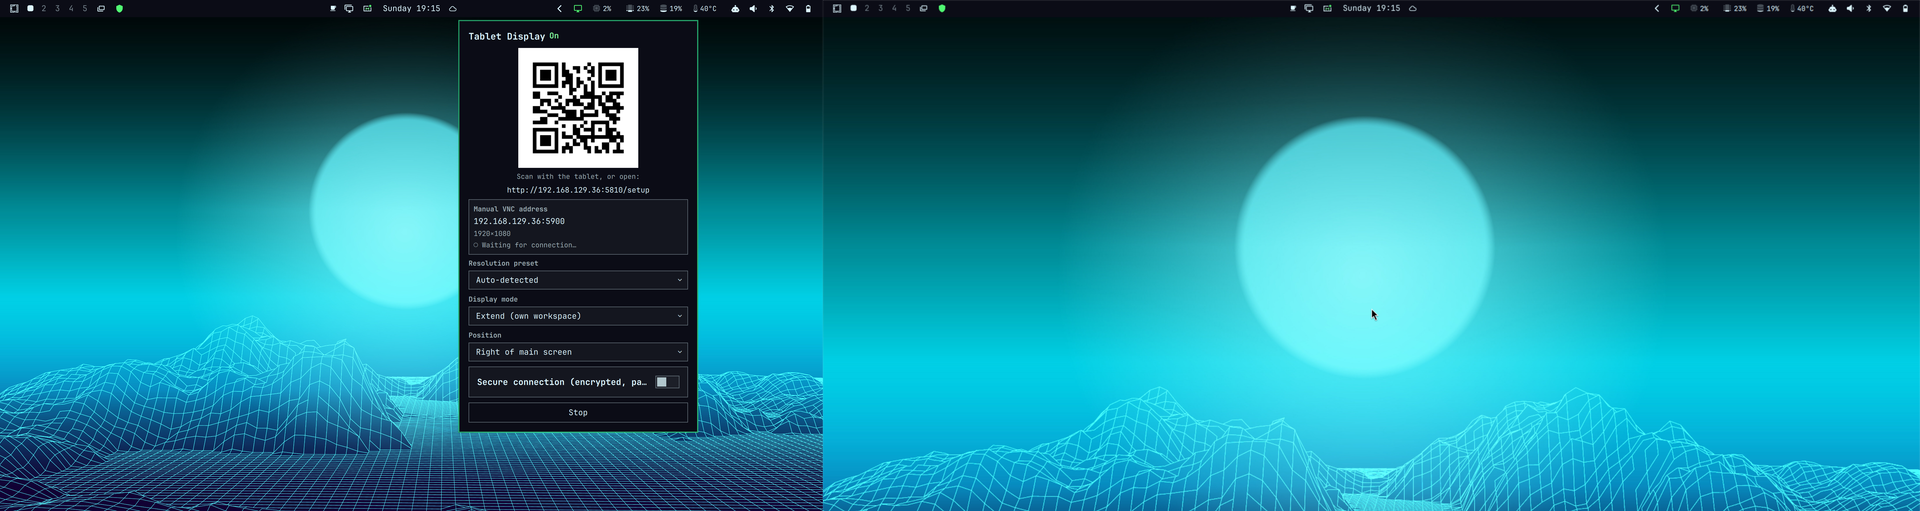
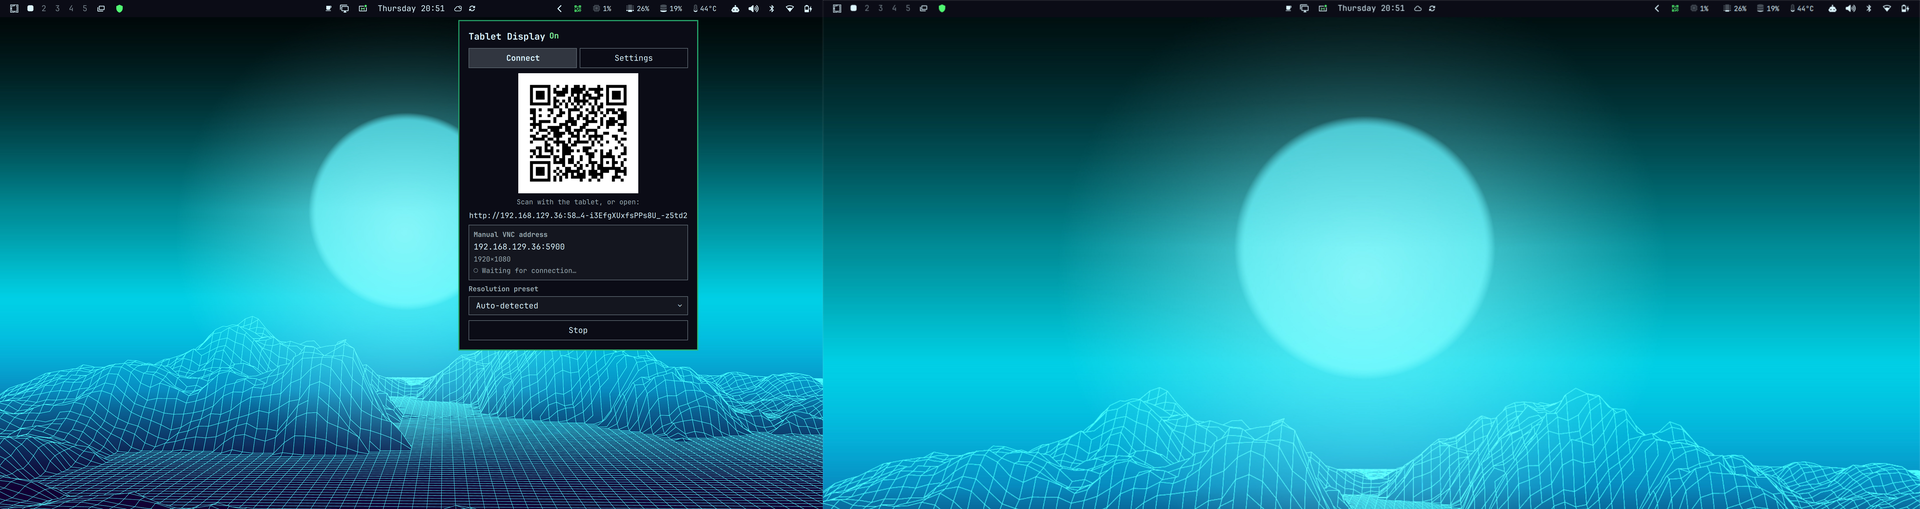
Re-record all demo GIFs and preview for the current tabbed UI
All three GIFs and the marketplace preview image predated the
Connect/Settings tabs, the QR-code bar icon, and mandatory encryption
(no toggle) -- they still showed the old single-column panel with an
encryption toggle that no longer exists.

- install-clip.gif: plugin add -> panel opens on Settings (nothing to
  show on Connect yet) -> Set up now -> the real polkit prompt for the
  ufw rule -> ready. Trimmed the unanswered-prompt's real ~15s timeout
  down to a brief held frame, same technique as before.
- quick-start.gif: Start -> panel switches to Connect automatically ->
  QR code.
- settings.gif: Position change and password regeneration on the
  Settings tab (no more toggle to demonstrate).
- preview.png: fresh screenshot, Connect tab with QR code, Extend mode
  showing the real second monitor.

Also tidied the Quick start numbered list: the tabs explanation was
awkwardly appended to the "Set up now"/polkit paragraph in the previous
commit; moved it to where the panel is actually described opening.

Claude-Session: https://claude.ai/code/session_01BrR7G7B2Zq3M2crPZbv75B

Changed region(s): [[0.0, 0.0884, 1.0, 1.0], [0.6562, 0.0, 0.75, 0.0295], [0.1562, 0.0, 0.25, 0.0295]]

diff --git a/README.md b/README.md
@@ -40,7 +40,10 @@ below.
 
 ![Enabling the plugin, then the one-time setup and its password prompt](docs/install-clip.gif)
 
-1. Click the bar icon. The panel opens.
+1. Click the bar icon. The panel opens, with two tabs — **Connect** and
+   **Settings**. It opens on Settings first (Connect has nothing to show
+   before a session exists), and switches to Connect automatically once
+   you start one.
 2. **First time only**: the panel shows a "Set up now" button instead of
    the usual controls. Click it. This is what actually installs
    [`wayvnc`](https://github.com/any1/wayvnc) via `pacman` if it isn't
@@ -55,9 +58,6 @@ below.
    needing a terminal. If that agent isn't available for some reason, it
    falls back to printing the exact command to run yourself instead of
    failing silently.
-   The panel has two tabs, **Connect** and **Settings** — it opens on
-   Settings first (Connect has nothing to show yet), and switches to
-   Connect automatically once you start a session.
 3. Click **Start** (on the Settings tab).
 
 ![Scanning the QR code to connect](docs/quick-start.gif)
